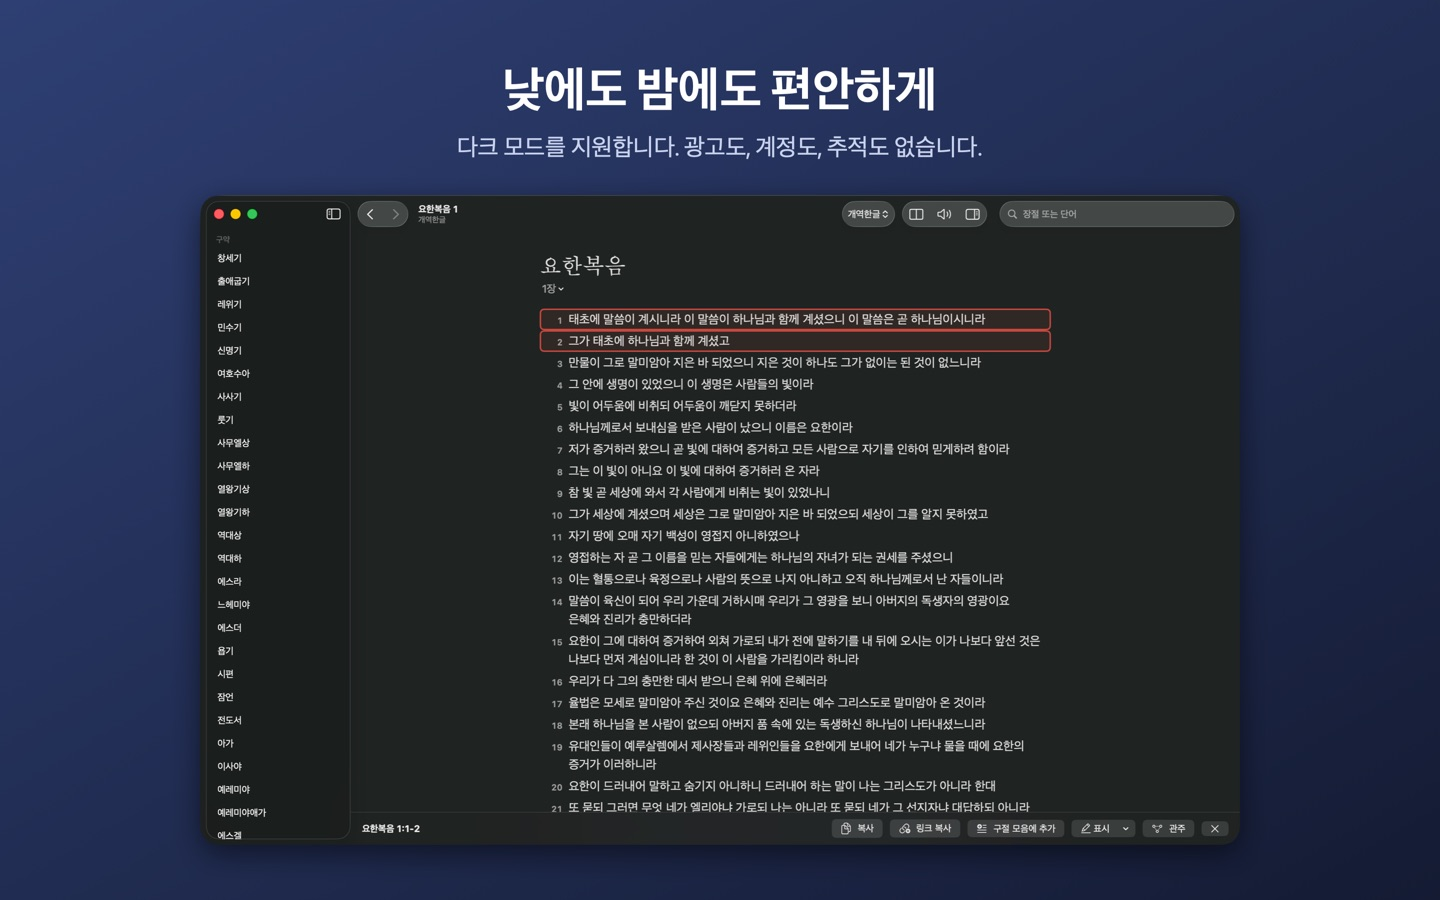
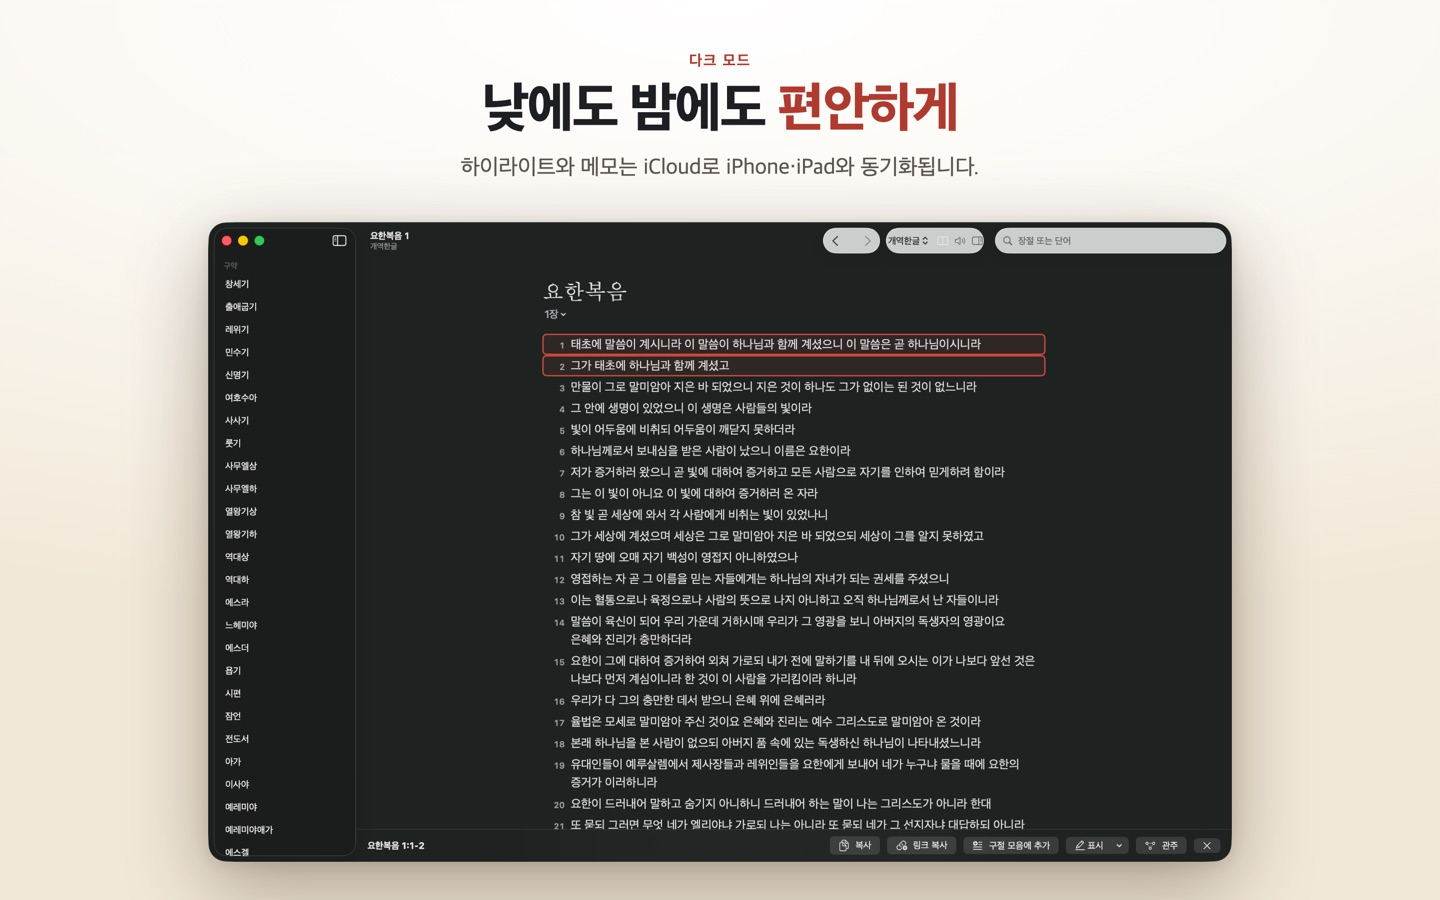
Site: new store screenshots (Mac 1-6) and per-language iPhone/iPad frames; privacy text moved into i18n so build.py keeps the Firebase policy

diff --git a/en/index.html b/en/index.html
@@ -47,7 +47,7 @@
     </div>
     <div class="hero-art">
       <img class="mac" src="../assets/shots/reader-dark-en.jpg" alt="" width="1440" height="900">
-      <img class="phone" src="../assets/shots/iphone-marks-ko.jpg" alt="" width="640" height="1390">
+      <img class="phone" src="../assets/shots/iphone-marks-en.jpg" alt="" width="640" height="1390">
     </div>
   </div>
 </section>
@@ -70,8 +70,8 @@
       <p class="note">Highlights, notes and bookmarks sync between your Mac, iPhone and iPad through your own iCloud. You can turn it off in Settings.</p>
     </div>
     <div class="devices-art">
-      <img class="pad" src="../assets/shots/ipad-parallel-ko.jpg" alt="" width="1200" height="1600" loading="lazy">
-      <img class="phone" src="../assets/shots/iphone-notes-ko.jpg" alt="" width="640" height="1390" loading="lazy">
+      <img class="pad" src="../assets/shots/ipad-parallel-en.jpg" alt="" width="1200" height="1600" loading="lazy">
+      <img class="phone" src="../assets/shots/iphone-notes-en.jpg" alt="" width="640" height="1390" loading="lazy">
     </div>
   </div>
 </section>

diff --git a/build.py b/build.py
@@ -43,6 +43,7 @@ def icon(name, cls="ico"):
 def esc(s):
     out = html.escape(s, quote=False)
     out = out.replace("https://policies.google.com/privacy", '<a href="https://policies.google.com/privacy">policies.google.com/privacy</a>')
+    out = out.replace("https://firebase.google.com/support/privacy", '<a href="https://firebase.google.com/support/privacy">firebase.google.com/support/privacy</a>')
     return out.replace("{email}", f'<a href="mailto:{SUPPORT_EMAIL}">{SUPPORT_EMAIL}</a>')
 
 
